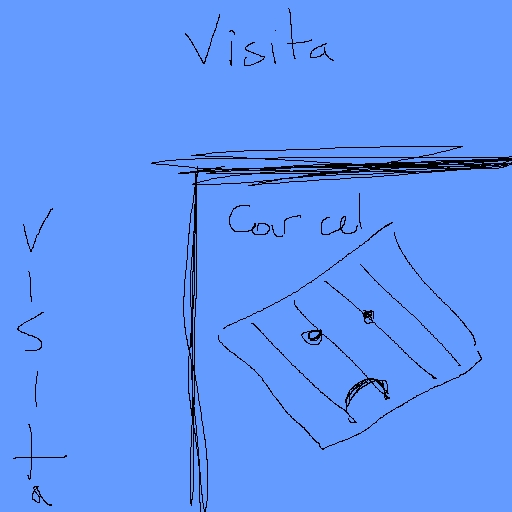
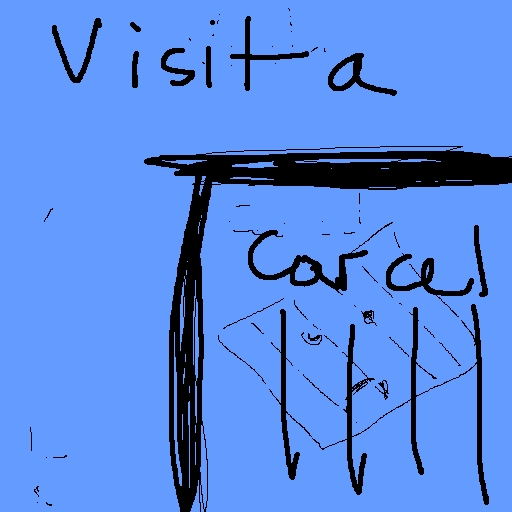
se añadio texturas y casillas esquinas

diff --git a/src/javascript/casillas.js b/src/javascript/casillas.js
@@ -23,14 +23,35 @@ export const propiedades = [
     new Propiedad("Avenida Banzer", 350, 40),
 ];
 */
+
 const textureLoader = new THREE.TextureLoader();
-const texture = textureLoader.load('/assets/img/carcel.jpg');
+const carcel = textureLoader.load('/assets/img/carcel.jpg');
+const go = textureLoader.load('/assets/img/go.jpg');
+//const parqueo texture load
+//const ve a la carcel texture load
+
 const casillaEsquinaGeometry = new THREE.PlaneGeometry(1, 1);
-const casillaMaterial = new THREE.MeshBasicMaterial({ map: texture });
-const casillaEsquina = new THREE.Mesh(casillaEsquinaGeometry, casillaMaterial);
-casillaEsquina.position.set(-3, 3, 0);
+const carcelMaterial = new THREE.MeshBasicMaterial({ map: carcel });
+const goMaterial = new THREE.MeshBasicMaterial({ map: go });
 
 
-export {casillaEsquina};
+
+const casillaEsquina1 = new THREE.Mesh(casillaEsquinaGeometry, carcelMaterial);
+const casillaEsquina2 = new THREE.Mesh(casillaEsquinaGeometry, carcelMaterial);
+const casillaEsquina3 = new THREE.Mesh(casillaEsquinaGeometry, carcelMaterial);
+const casillaEsquina4 = new THREE.Mesh(casillaEsquinaGeometry, goMaterial);
+
+casillaEsquina1.position.set(-3, 3, 0);
+casillaEsquina2.position.set(3, 3, 0);
+casillaEsquina3.position.set(3, -3, 0);
+casillaEsquina4.position.set(-3, -3, 0);
+
+const casillasEsquinasGroup = new THREE.Group();
+casillasEsquinasGroup.add(casillaEsquina1);
+casillasEsquinasGroup.add(casillaEsquina2);
+casillasEsquinasGroup.add(casillaEsquina3);
+casillasEsquinasGroup.add(casillaEsquina4);
+
+export {casillasEsquinasGroup};
 
 

diff --git a/src/javascript/main.js b/src/javascript/main.js
@@ -1,7 +1,7 @@
 import * as THREE from 'https://cdn.jsdelivr.net/npm/three@latest/build/three.module.js';
 import { cube } from './cube.js'; // Importar el cubo
 import {tablero} from './tablero.js'
-import {casillaEsquina} from './casillas.js';
+import {casillasEsquinasGroup} from './casillas.js';
 
 // Crear la escena y la cámara
 const scene = new THREE.Scene();
@@ -19,7 +19,7 @@ document.body.appendChild(renderer.domElement);
 // Agregar el cubo a la escena
 scene.add(cube);
 scene.add(tablero);
-scene.add(casillaEsquina);
+scene.add(casillasEsquinasGroup);
 
 
 // Crear un elemento de texto para depuración
